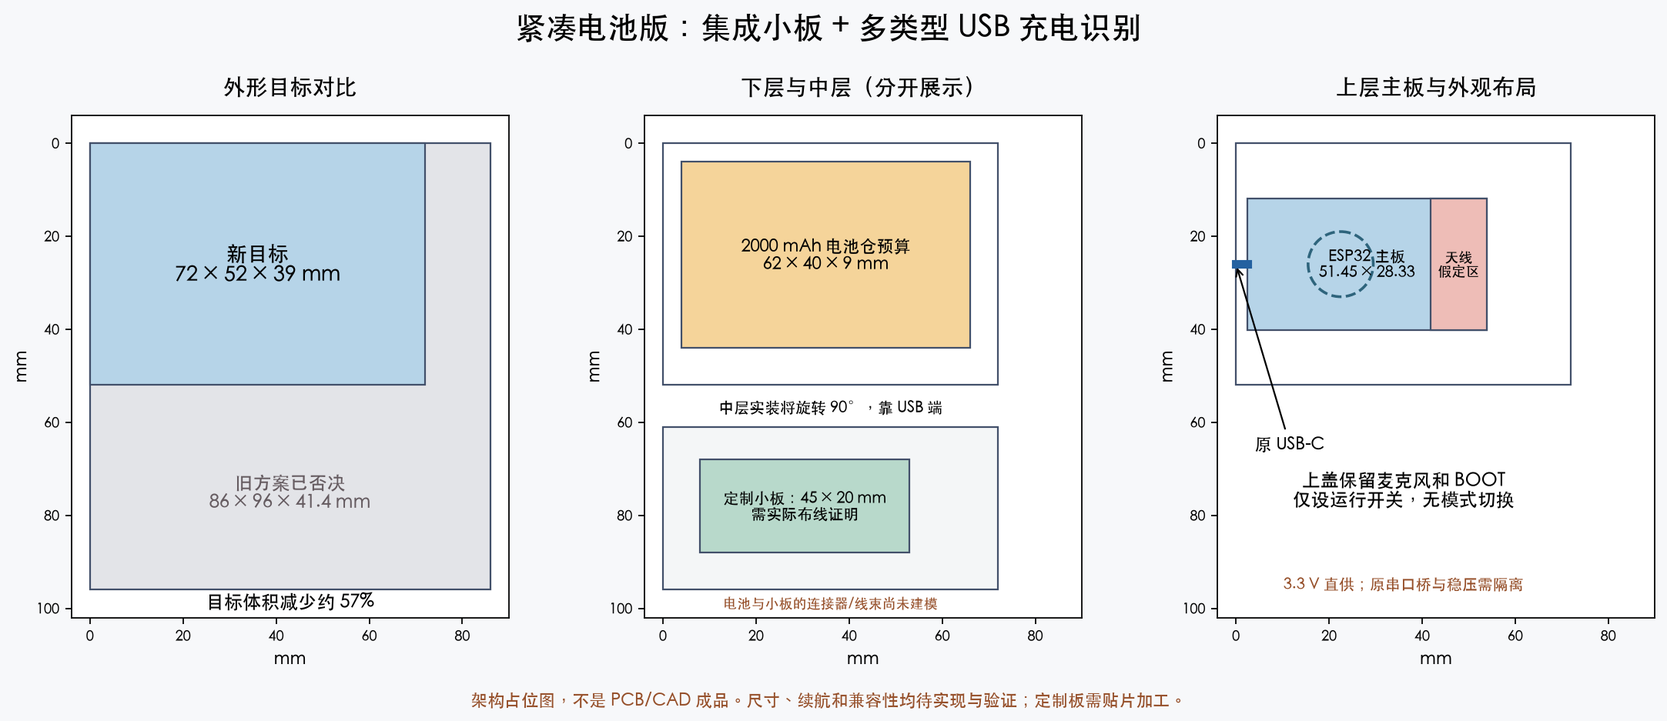
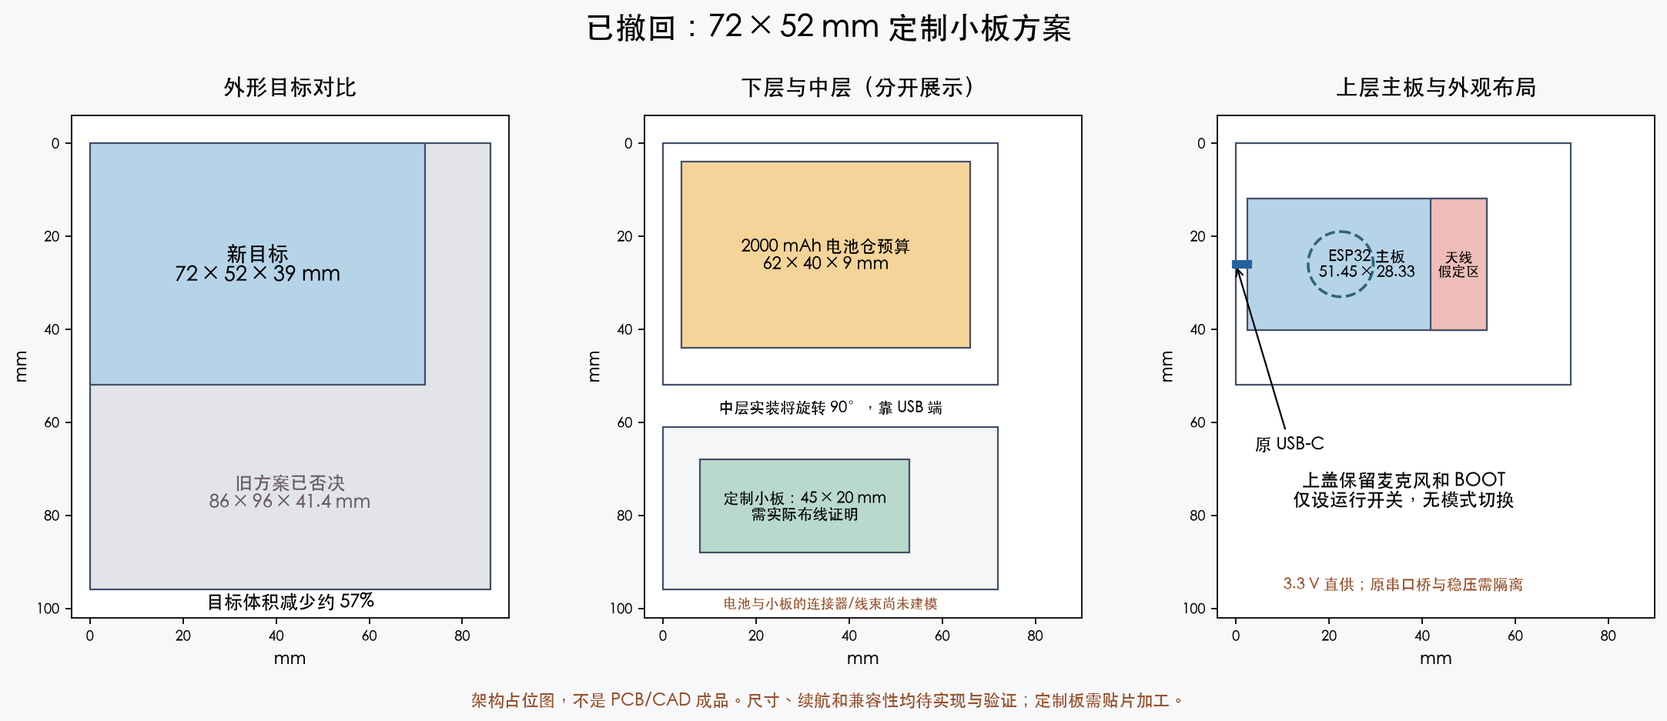
docs: 固定初代外壳长宽并核实一体电源板与小电池约束

Changed region(s): [[0.3095, 0.0, 0.6808, 0.0619]]

diff --git a/docs/superpowers/research/draw_compact_battery_layout.py b/docs/superpowers/research/draw_compact_battery_layout.py
@@ -42,7 +42,7 @@ axes[2].add_patch(plt.Circle((22.5,26),7,fill=False,edgecolor='#2e647c',lw=1.6,l
 axes[2].annotate('原 USB-C',xy=(0,26),xytext=(4,66),arrowprops={'arrowstyle':'->'},fontsize=10)
 axes[2].text(36,78,'上盖保留麦克风和 BOOT\n仅设运行开关，无模式切换',ha='center',fontsize=11)
 axes[2].text(36,96,'3.3 V 直供；原串口桥与稳压需隔离',ha='center',fontsize=9,color='#954e28')
-fig.suptitle('紧凑电池版：集成小板 + 多类型 USB 充电识别',fontsize=18,y=.97)
+fig.suptitle('已撤回：72 × 52 mm 定制小板方案',fontsize=18,y=.97)
 fig.text(.5,.03,'架构占位图，不是 PCB/CAD 成品。尺寸、续航和兼容性均待实现与验证；定制板需贴片加工。',ha='center',fontsize=10,color='#954e28')
 fig.subplots_adjust(left=.06,right=.98,top=.83,bottom=.15,wspace=.3)
 svg=ROOT/'2026-09-30-compact-battery-layout.svg'

diff --git a/docs/superpowers/specs/2026-09-30-single-usbc-battery-design.md b/docs/superpowers/specs/2026-09-30-single-usbc-battery-design.md
@@ -1,148 +1,91 @@
-# VOXU 紧凑单 USB-C 电池版设计
+# VOXU 原尺寸电池版设计
 
-日期：2026-09-30。基线：main `81804c4`，PR #3 和 #4 已合入。
+日期：2026-09-30。远程 main 已核实为 `81804c4`，包含初代外壳及蓝牙重连改动。
 
-**状态：根据用户否决大尺寸方案后的架构修订。尚未完成电路图、PCB 布线、CAD/STL、打板或实测。本文不是直接采购/焊接说明。**
+**当前阶段：按用户最新要求重新选型和布局。尚无可直接照焊的完整接线图，也没有电池版打印文件。**
 
-## 1. 已确认的要求
+## 1. 当前约束
 
-- 复用现有 ESP32-WROOM-32、30 针开发板、原 USB-C 接口与 14 mm 圆形 INMP441。
-- 保持现有麦克风、BOOT 操作及蓝牙自动重连功能，目标持续连接并采音 4–6 小时。
-- 同一个 USB-C：接电脑充电并刷机，接充电器充电，拔线自动用电池；不设电脑/充电器切换开关。
-- 主要电脑是 MacBook USB-C；**充电器应尽可能兼容多种类型，不能限定只有 USB-C 和 C-to-C 线。**
-- **86 × 96 × 42 mm 模块堆叠方案已被否决。** 不再使用大型 Click 检测板、Adafruit 充电板、PowerBoost 板叠加作为成品方案。
-- 交付 BOM、电路/接线/改造与装配说明、可编辑外壳源码、STL、实际预览、打印包和分项验证记录；原 USB 版保持独立。
+- 外壳长宽固定 **60 × 40 mm**，保持初代外形；仅适当增加厚度。初代壳体高 19.4 mm，按钮另计。
+- 优先利用现有空隙放小电池，容量服从空间；原先 4–6 小时改为参考愿望，不再为满足它扩大长宽。实际续航需测量后报告。
+- 保留 ESP32-WROOM-32 30 针开发板、原 USB-C、原串口刷机和自动下载电路、14 mm INMP441 与 BOOT 操作。
+- 同一 USB-C 接 MacBook 可充电和刷机，接充电器可充电，拔线自动用电池；支持边充边用和关机充电，不设电脑/充电器模式开关。
+- 尽可能覆盖常见 USB-A 与 USB-C/PD 充电器的 5 V 输出，不以高压快充为前提；具体兼容性需验证。
+- 优先一块成品充电升压板，不再把定制 PCB、替换 CH340、整套 CC/UART 检测当作既定实施范围。
 
-## 2. 收敛后的架构
+86 × 96 mm 大模块方案和 72 × 52 mm 定制小板方案均已撤回。上一轮关于接受定制板与原板串口拆改的提问已失效，无需继续回答。
 
-采用一块定制电源/USB 小板，整合 USB 电源识别、串口桥、负载分配充电、3.3 V 升降压和掉电信号隔离。保留 ESP32 主控板，但隔离其原 CH340 与 5 V→3.3 V 稳压通路，避免两套电路并联。小板需要打板和贴片加工；不能当成现成模块接几根电源线即可完成。
+## 2. 除电池之外需要什么
 
-改为直接产生稳压 **3.3 V** 给主控和麦克风，取消“电池升到约 5.2 V，再由原板线性降到 3.3 V”的路径。较低的系统功率预算有助于采用更窄电池并降低普通电脑口的充电负担。实际收益必须测量。
+| 项目 | 数量 | 用途 |
+| --- | ---: | --- |
+| 带保护的单节 3.7 V / 满充 4.2 V 电池 | 1 | 按可用空间、持续/峰值放电能力选型，不只看 mAh |
+| 集成充电、负载分配和 5 V 升压的成品板 | 优先 1 | 插线充电并供电，拔线从电池供电；维持原板 VIN 供电方式 |
+| 小运行开关 | 1 | 控制系统运行，充电仍保留 |
+| 导线、绝缘和固定件 | 少量 | 固定软包，隔开焊点与热源，完成电源改接 |
+| 模块充电设定电阻 | 可能更换 1 个 | 将默认大电流降至适合小电池的值 |
 
-```text
-原 USB-C
- ├─ CC1/CC2 ── PTN5150A（受电端）──── 电流声明/连接状态 ─┐
- ├─ D+/D− ──── FT231X（替代原 CH340）── 枚举/充电器检测 ─┤
- │                  └─ TX/RX/DTR/RTS ─ TXU0304 ─ 原下载电路/ESP32
- └─ VBUS ── USB 控制电源（插线即工作）                   │
-         └─ BQ24074 ← 硬件许可与限流控制 ←───────────────┘
-              ↕         │ OUT
-          保护电池      TPS63802 → SYS_3V3 → ESP32 / INMP441
-                         ↑ EN
-                       运行开关
-```
+这是数量与功能说明，不是已冻结采购单。充电升压板不会自动使原开发板具备电池充电能力；必须区分 USB 输入和升压输出，避免输出回流到 USB。
 
-USB 检测、FT231X 和充电控制从外部 VBUS 取得电源，不依赖电池或 ESP32 启动。这是空电池接电脑恢复和关机充电的基础。运行开关关闭系统稳压输出，不关闭充电控制。
+## 3. 成品板候选
 
-## 3. 核心器件候选与用途
+优先复核 **Adafruit PowerBoost 1000C #2465**。它已有负载分配充电和约 5.2 V 升压，可保留原开发板稳压器与串口桥。厂家产品页标注的 23 × 45 × 10 mm 是装上 USB-A 插座后的尺寸，不能据此直接判定装不下。
 
-| 器件 | 用途 | 选型依据 / 尚需完成 |
-| --- | --- | --- |
-| PTN5150A | USB-C CC 电流与连接检测，固定 UFP | 支持断电时内部 Rd；直接使用 IC，取消 57 mm Click 模块；核对封装、供应与 GPIO 时序 |
-| FT231XQ | USB UART、专用充电器检测、枚举/挂起输出 | 替代原 CH340；MTP 需配置 500 mA 请求、CBUS 和充电检测，作为小板生产配置步骤 |
-| BQ24074 | 单节 4.2 V 锂电充电及负载分配 | 对系统负载和电池充电分别管理；需要 NTC 和输入许可，不单凭 VBUS 有电就大电流充电 |
-| TPS63802 | 3.3 V 升降压、关断时负载断开 | 厂家给出 3.3 V、输入≥2.3 V 时 2 A 能力；电感、电容、反馈和瞬态必须按实际 PCB 设计验证 |
-| TXU0304 | USB 域与 SYS_3V3 域之间的四路信号隔离 | 3 路桥→主控、1 路主控→桥，覆盖 TX、DTR、RTS、RX；处理关机或拔 USB 时的 IO 灌电 |
-| 逻辑门、限流选择 MOSFET | 硬件许可与限流选择 | 控制电源优先使用 FT231X 的 3V3OUT，外部负载预算≤10 mA；该输出额定 50 mA，不能用于给 ESP32 供电；具体封装、默认态和去耦落入原理图 |
-| 单节保护电池，约 2000 mAh | 缩小宽度，保留续航目标 | 以 Adafruit #2011 的 60 × 36 × 7 mm 为尺寸参考；其关联文件存在 LP803860 型号，先留 62 × 40 × 9 mm 电池仓包络，供应/实物尺寸需确认 |
-| 10 kΩ NTC、运行开关、连接器/绝缘件 | 温度监测、用户开关与装配 | NTC 参数匹配充电器；电池保护和 NTC 均不能省略 |
+本轮读取厂家 Rev B EAGLE 文件：PCB Dimension 层范围约 **36.068 × 22.86 mm**。不装散装 USB-A 输出座，使用输出焊盘。板上的 JST、电感、micro-USB 和接线仍占空间；PCB 外形不等于完整装配包络，高度需继续核实。
 
-以上是架构级候选，不是完整制造 BOM。尤其不能将未核对的电池型号替换后继续沿用旧外壳。电池参考页本轮显示缺货，采购版本与可用替代件尚未锁定。
+原理图确认 `R16=1kΩ` 接 MCP73871 `PROG1`，默认约 1 A 充电，不适合本次小电池。拟改为 `10kΩ`，芯片资料在相应测试条件给出约 90–110 mA。这是充电电流设置，**不是 USB 总输入限流**。原板 `SEL` 接 VBUS，默认适配器模式；仅改 R16 不能宣称获得 USB 端口协商或 100 mA 总输入限制。最终接线与电脑供电预算仍需完成。
 
-## 4. USB 自动识别与充电策略
+这一候选此前因 USB 授权与限流问题没有冻结；本轮发现较小裸板尺寸，解决的是机械尺寸判断，并没有解决上述电气问题。若输入预算无法满足目标，不能把它当作已通过方案，也不自动恢复复杂串口替换方案。
 
-兼容性用明确的电源类别和验证矩阵定义，不使用“所有充电器保证可用”的表述。
+其他候选：DFRobot DFR0446 约 35 × 30 mm，但默认大电流与连接器需要额外处理；SparkFun MCP73831/PAM2401 板不凭“充电+升压”商品名认定具备所需负载分配；Waveshare UPS Mini 的 61 × 38 mm PCB 已超过本壳可用长宽，不继续采用。
 
-| 接入类型 | 识别依据 | 设计行为 |
-| --- | --- | --- |
-| MacBook / USB-C 主机，声明 1.5 A 或 3 A | CC 连接有效及电流声明 | 自动充电，FT231X 同时承担刷机数据；不请求 9/12/20 V |
-| 普通 USB 数据主机 / USB-A 转 C 数据线 | FT231X 成功配置及功耗请求 | 枚举成功后进入较低输入限流档，允许同时刷机和充电 |
-| USB-A BC1.2 DCP 充电器 | FT231X 专用充电器检测 | 自动进入充电档，无需主机枚举 |
-| CDP 充电数据口 | 先按已枚举的 USB 数据口处理 | 保守限流并保留数据，不为了宣称更快充电而假定 1.5 A 授权 |
-| USB-C 充电器，声明 1.5 A 或 3 A | CC 检测 | 自动充电；覆盖常用 USB-C/PD 充电器的 5 V 供电，不请求高压 |
-| 主机挂起/断开授权 | CC 与 FT231X 状态变化 | 自动降低/关闭外部输入，必要时电池维持运行；恢复后重新判断，不需切档 |
-| 不规范充电器、仅私有分压识别、数据脚悬空或异常线缆 | 尚无可靠许可 | 不冒充已兼容；保留测试项。优先覆盖上面的标准类别，异常类别不得默认放大电流 |
+## 4. 电池与续航边界
 
-定义 `C = CC连接有效且声明≥1.5A`、`D = FT231X确认DCP`、`E = FT231X成功配置且未挂起`。
+500 mAh 参考件 Adafruit #1578 为 **36 × 29 × 4.75 mm**，带保护。其厂家数据表最大持续放电为 1C，即约 0.5 A；它是尺寸与电流参考，尚未定为采购件。
 
-- 允许充电输入：`G = C OR D OR E`。
-- 高输入预算：`H = C OR D`；其余已配置数据主机采用低输入预算。
-- 无许可时 BQ 使用 standby；系统可以继续用电池，不能把电池放电误报为正在充电。
-- 以上是稳态逻辑。复位、插拔、挂起、无电池启动、各信号失效/高阻、输出下拉都必须在原理图和实物中验证。
+以最低电压 3.0 V、升压效率 85% 估算，这个持续电流上限只能支持约 `3.0 × 0.5 × 0.85 / 5.2 = 0.245 A` 的 5.2 V 输出。必须检查整机负载与启动峰值，不能把升压板额定 1 A 当作小电池也能输出 1 A。参考电池数据表没有提供这里所需的峰值放电保证。
 
-FT231X 的枚举和 DCP 检测走同一个 USB PHY，避免把独立检测芯片未经时序管理直接并联到 CH340 数据线上。USB 控制域和主控域之间通过 TXU0304；不能把 DTR/RTS 直接改接到 EN/BOOT 而跳过原来的自动下载逻辑。
+500 mAh 在 5.2 V 平均负载 0.2 A、85% 效率、80% 可用容量的示例续航约 **1.21 小时**。这是假设计算，不是实测或用户承诺；比原 2000 mAh 方案短是缩小电池后的直接结果。更小电池仍需满足放电能力，不能只为并排塞入外壳选择 100/150 mAh。
 
-## 5. 输入电流预算
+## 5. 已有空间的实际约束
 
-当前主机上已读取到一个 WCH `1a86:7523` 设备，`bMaxPower=49` 即 98 mA；它与照片板的对应关系未独立确认。该证据不支持假定旧串口桥已申请 500 mA。[只读记录](../research/2026-09-30-usb-readonly-evidence.json)保留原始结果及限制。
+从初代参数和 CAD 源码计算，数值及厂家 PCB 源文件校验值见 [本轮证据](../research/2026-09-30-original-footprint-evidence.json)：
 
-定制板拟采用两档 ILIM 电阻网络：基础 **4.53 kΩ、1%**；高预算时并联 **3.01 kΩ、1%**，等效约 1.81 kΩ。MOSFET 的导通电阻和漏电也需纳入最终误差。
+| 部位 | 当前空间 | 说明 |
+| --- | ---: | --- |
+| 底板上表面到主板底面 | 2 mm | 底板 z=2，主板底面 z=4；还需扣焊点、托台及绝缘 |
+| 主板高元件顶面到可选麦克风压框下缘 | 3.5 mm | 高元件 z=10.1，压框最低 z=13.6；不是整层连续空腔 |
+| 主板后缘到后内壁 | 4.15 mm | PCB 后缘 x=53.85，内壁 x=58 |
 
-按 BQ24074 数据手册相应档位系数计算：
+所以不能只凭外观空隙认定 4.75 mm 电池能直接放入原 19.4 mm 高壳。下一步在 **60 × 40 mm** 内比较“电源板下置、电池利用上方空隙”和“底部薄分层”两种排布，再得到最小厚度，不先承诺未经检查的高度。
 
-| 档位 | 预计输入限流范围 | 约束 |
-| --- | --- | --- |
-| 已配置普通数据主机 | 约 0.291–0.384 A | 控制域额外电流另计；控制域预算上限 50 mA，则合计上限约 434 mA，低于拟请求的 500 mA |
-| 已识别 DCP / CC 高电流 | 约 0.821–0.961 A | 控制域仍另计；不把 1.5 A 源端额度全部交给充电器 |
+- 保留麦克风卡槽形状和 BOOT 功能。上移部件后重算 USB 窗口、卡扣、支撑与按钮；不能只修改壳高。
+- 不让支柱、焊脚或卡扣压电池。电池包络需包含保护板、线出口、公差与适当余量。
+- 电池与电源板靠近 USB 端，避免覆盖主板远端天线；无法完全满足推荐净空时必须记录并做实际蓝牙距离/录音测试，不能当作射频验证通过。
+- 初代 USB 外壳文件保持独立，电池版另建目录；新尺寸与支撑验证后才生成可打印件。
 
-50 mA 是控制域设计约束，不是已测值；定稿前必须列全 FT231X、CC、隔离和逻辑电流。低档系数使用 200–500 mA 条件，不能套用高档的典型值。
+## 6. 原 USB-C 的电源改接
 
-充电电流初始预算约 0.4–0.5 A，并由输入负载分配和温度限制自动降低。3.3 V 系统在普通电脑档的持续工作/净充电能力要用实际功耗验证。若持续负载大于输入余量，不能把亮充电灯当作边充边用验收通过。
+概念连接为：原 USB-C VBUS → 成品电源板输入；保护电池 → BAT；电源板输出 → 原板 VIN；所有地共地。原 USB 数据和自动下载连接保留。
 
-## 6. 主板改造边界
+**此图还不能照焊。** 必须先确认实际开发板 VBUS、VIN、串口桥供电及原板隔离二极管/走线。输入与输出不能并在同一网形成充电回路；不能凭照片外形猜测应拆哪个二极管。还需核对拔 USB 或运行开关关闭时 UART 的供电状态与回灌。
 
-1. 保留原 USB-C 的机械位置和接口；将其 VBUS、GND、CC1/CC2、D+/D− 分别接入小板规定节点。
-2. 隔离原 USB VBUS→VIN→3V3 供电通路；隔离原 3.3 V 稳压器，防止从输出端回灌。SYS_3V3 只送往验证后的主控 3.3 V 电源网，不接 VIN。
-3. 原 CH340 的 USB 和 UART 驱动不能与 FT231X 并联，需移除/隔离原桥。FT231X 经隔离器连至 ESP32 UART 与原 DTR/RTS 下载电路的对应输入。
-4. CC 检测 IC 自带 Rd，原板两条 CC 下拉需按最终追线结果处理；不得仅凭外形猜焊点。
-5. SYS_3V3 的稳态、启动和负载阶跃上冲均需落在 ESP32 允许范围。电池不直接接 3V3；原板上的 3V3 标签不代表可以直接接单节锂电。
-6. 空板导通、极性、USB 回灌和限流电源测试通过后再接电池。原板具体改造图和小板制造文件仍待完成。
+兼容性验收分别包含：MacBook C-to-C 充电刷机、USB-A 充电器+A-to-C、USB-C/PD 充电器+C-to-C、插拔、关机充电、低电量启动。模块能接 5 V 不等于上述组合全部已通过。保留已读取的 [USB 描述符证据](../research/2026-09-30-usb-readonly-evidence.json)，不把端口标称能力当作实际授权或功耗测量。
 
-这个方案需要贴片加工和原板细焊点改造，不能继续描述成只需拆排针。应先完成可审阅电路与制造方案，再明确用户实际需要执行的步骤。
+## 7. 下一步与完成标准
 
-## 7. 续航与外壳目标
+1. 锁定模块装配包络、小电池放电能力与原板电源改接；提供可审阅 BOM 和明确接线。
+2. 在 60 × 40 mm 内完成部件排布、机械支撑和最小厚度；输出独立参数化 CAD、STL、预览及打印包。
+3. 完成几何/按钮/碰撞及 P2S 切片检查，并保留实物尺寸与装配验证项。
+4. 实测电脑充电刷机、各类充电器、插拔、关机充电、无回灌、温升、录音与续航。
 
-2000 mAh 电池名义能量 7.4 Wh，暂取 85% 转换效率、80% 可用容量：
+PR 继续 Draft。当前没有最终电路、打印包或实物验证通过的结论。
 
-`小时 = 2.0 × 3.7 × 0.85 × 0.80 / (3.3 × 系统平均电流A)`
+## 8. 可追溯资料
 
-| 3.3 V 系统平均电流 | 预算续航 |
-| --- | ---: |
-| 0.25 A | 6.10 h |
-| 0.30 A | 5.08 h |
-| 0.35 A | 4.36 h |
-
-这是重新计算的直接 3.3 V 架构预算，不是测量；不得复用旧 5.2 V 电流数据。电池端连续使用至少 4 小时仍为实物验收项。
-
-新的外形设计目标为 **约 72 × 52 × 39 mm**（按钮凸起另计），体积约比被否决方案降低 57%。这只是布局目标，不能先承诺一定能实现。定制板初始占位约 **45 × 20 mm**，须由实际布线、热设计和装配确认。
-
-![紧凑方案的尺寸比较与分层占位；不是最终 CAD](../research/2026-09-30-compact-battery-layout.png)
-
-[可编辑 SVG](../research/2026-09-30-compact-battery-layout.svg)与[绘图源码](../research/draw_compact_battery_layout.py)保留尺寸目标和假设；图中分层占位不能替代实际碰撞检查。
-
-- 电池下层，按 62 × 40 × 9 mm 包络留间隙与线出口。
-- 定制板置于中层靠 USB 端；发热和开关节点远离麦克风，导电部分避开天线。
-- ESP32 上层；主板天线与电池/金属的净空是缩小外壳的硬约束，不能只压低高度。
-- 保留平面上盖、已验证的麦克风卡槽形状和 BOOT 功能；新的按钮长度需要重新验证，不把旧样件长度直接认作适用。
-- 电池与热源隔开，避免螺钉或焊脚压迫软包；充电板热限流后仍需净充电。
-
-历史 [86 × 96 × 42 mm 布局](../research/2026-09-30-battery-layout-proposal.md)明确标为已否决；其中器件研究可作参考，不能再作为当前成品方向。
-
-## 8. 交付和验收
-
-- 当前：修订后的架构、兼容性/电流预算；不是完整 BOM、PCB 或打印包。
-- 下一步：闭合控制原理图、器件与引脚、USB 配置、NTC、启动/挂起真值表；完成 PCB 实际外廓及可制造性检查。
-- 随后：独立电池版 CAD/STL、装配预览、尺寸/碰撞检查、P2S 切片与下载包，不覆盖原 USB 版。
-- 实物：主板改造节点、各类电源的自动充电及刷机、关机充电、空电池恢复、无回灌、热与 NTC/低压保护、录音噪声、4 小时续航、装配与按键均需验证。
-- PR 保持 Draft，分别报告资料/计算、PCB/CAD 检查、CI 和实物验证；不把候选器件的厂家规格当作整机验收结果。
-
-## 9. 依据
-
-- [FT231X 数据手册](https://ftdichip.com/wp-content/uploads/2025/06/DS_FT231X.pdf)：USB UART、CBUS、3V3OUT 额定输出与 MTP 配置。
-- [FTDI AN_175](https://ftdichip.com/wp-content/uploads/2020/08/AN_175_Battery-Charger-Detection-over-USB-with-FT-X-Devices.pdf)：枚举、挂起与 DCP 检测控制。
-- [PTN5150A 手册](https://download.mikroe.com/documents/datasheets/PTN5150A_datasheet.pdf)：CC 电流检测、断电 Rd、GPIO 模式。
-- [BQ24074 手册](https://www.ti.com/lit/gpn/bq24074)：电源路径、两档 ILIM 误差系数。
-- [TPS63802](https://www.ti.com/product/TPS63802)：升降压和关断输出隔离。
-- [TXU0304 手册](https://www.ti.com/lit/ds/symlink/txu0304.pdf)：固定方向通道和电源域掉电隔离。
-- [2000 mAh 电池尺寸参考](https://www.adafruit.com/product/2011)：尺寸及关联文件型号需要继续核对。
-- [旧模块规格存档](../research/2026-09-30-rejected-modular-spec.md)：已否决，仅供追溯。
+- [原 USB 外壳参数](../../../hardware/enclosure/parameters.json)与[CAD 源码](../../../hardware/enclosure/generate.py)。
+- [PowerBoost 1000C 产品页](https://www.adafruit.com/product/2465)及[厂家原理图/PCB](https://github.com/adafruit/Adafruit-PowerBoost-1000C)。
+- [MCP73871 数据表](https://ww1.microchip.com/downloads/aemDocuments/documents/APID/ProductDocuments/DataSheets/MCP73871-Data-Sheet-DS20002090F.pdf)。
+- [500 mAh 参考电池](https://www.adafruit.com/product/1578)及[放电规格](https://cdn-shop.adafruit.com/product-files/1578/Datasheet.pdf)。
+- [DFRobot DFR0446](https://www.dfrobot.com/product-1613.html)、[Waveshare UPS Mini](https://www.waveshare.com/wiki/UPS_Module_Mini)。
+- [已撤回的定制板方案](../research/2026-09-30-superseded-custom-board-spec.md)，仅供追溯。

diff --git a/docs/superpowers/research/2026-09-30-superseded-custom-board-spec.md b/docs/superpowers/research/2026-09-30-superseded-custom-board-spec.md
@@ -1,0 +1,150 @@
+> 已撤回：用户随后明确长宽必须保持 60 × 40 mm，并优先小电池与简单实现。本文的 72 × 52 × 39 mm 和更换串口桥方案不再执行。当前规格见 [同尺寸电池版](../specs/2026-09-30-single-usbc-battery-design.md)。
+
+# VOXU 紧凑单 USB-C 电池版设计
+
+日期：2026-09-30。基线：main `81804c4`，PR #3 和 #4 已合入。
+
+**状态：根据用户否决大尺寸方案后的架构修订。尚未完成电路图、PCB 布线、CAD/STL、打板或实测。本文不是直接采购/焊接说明。**
+
+## 1. 已确认的要求
+
+- 复用现有 ESP32-WROOM-32、30 针开发板、原 USB-C 接口与 14 mm 圆形 INMP441。
+- 保持现有麦克风、BOOT 操作及蓝牙自动重连功能，目标持续连接并采音 4–6 小时。
+- 同一个 USB-C：接电脑充电并刷机，接充电器充电，拔线自动用电池；不设电脑/充电器切换开关。
+- 主要电脑是 MacBook USB-C；**充电器应尽可能兼容多种类型，不能限定只有 USB-C 和 C-to-C 线。**
+- **86 × 96 × 42 mm 模块堆叠方案已被否决。** 不再使用大型 Click 检测板、Adafruit 充电板、PowerBoost 板叠加作为成品方案。
+- 交付 BOM、电路/接线/改造与装配说明、可编辑外壳源码、STL、实际预览、打印包和分项验证记录；原 USB 版保持独立。
+
+## 2. 收敛后的架构
+
+采用一块定制电源/USB 小板，整合 USB 电源识别、串口桥、负载分配充电、3.3 V 升降压和掉电信号隔离。保留 ESP32 主控板，但隔离其原 CH340 与 5 V→3.3 V 稳压通路，避免两套电路并联。小板需要打板和贴片加工；不能当成现成模块接几根电源线即可完成。
+
+改为直接产生稳压 **3.3 V** 给主控和麦克风，取消“电池升到约 5.2 V，再由原板线性降到 3.3 V”的路径。较低的系统功率预算有助于采用更窄电池并降低普通电脑口的充电负担。实际收益必须测量。
+
+```text
+原 USB-C
+ ├─ CC1/CC2 ── PTN5150A（受电端）──── 电流声明/连接状态 ─┐
+ ├─ D+/D− ──── FT231X（替代原 CH340）── 枚举/充电器检测 ─┤
+ │                  └─ TX/RX/DTR/RTS ─ TXU0304 ─ 原下载电路/ESP32
+ └─ VBUS ── USB 控制电源（插线即工作）                   │
+         └─ BQ24074 ← 硬件许可与限流控制 ←───────────────┘
+              ↕         │ OUT
+          保护电池      TPS63802 → SYS_3V3 → ESP32 / INMP441
+                         ↑ EN
+                       运行开关
+```
+
+USB 检测、FT231X 和充电控制从外部 VBUS 取得电源，不依赖电池或 ESP32 启动。这是空电池接电脑恢复和关机充电的基础。运行开关关闭系统稳压输出，不关闭充电控制。
+
+## 3. 核心器件候选与用途
+
+| 器件 | 用途 | 选型依据 / 尚需完成 |
+| --- | --- | --- |
+| PTN5150A | USB-C CC 电流与连接检测，固定 UFP | 支持断电时内部 Rd；直接使用 IC，取消 57 mm Click 模块；核对封装、供应与 GPIO 时序 |
+| FT231XQ | USB UART、专用充电器检测、枚举/挂起输出 | 替代原 CH340；MTP 需配置 500 mA 请求、CBUS 和充电检测，作为小板生产配置步骤 |
+| BQ24074 | 单节 4.2 V 锂电充电及负载分配 | 对系统负载和电池充电分别管理；需要 NTC 和输入许可，不单凭 VBUS 有电就大电流充电 |
+| TPS63802 | 3.3 V 升降压、关断时负载断开 | 厂家给出 3.3 V、输入≥2.3 V 时 2 A 能力；电感、电容、反馈和瞬态必须按实际 PCB 设计验证 |
+| TXU0304 | USB 域与 SYS_3V3 域之间的四路信号隔离 | 3 路桥→主控、1 路主控→桥，覆盖 TX、DTR、RTS、RX；处理关机或拔 USB 时的 IO 灌电 |
+| 逻辑门、限流选择 MOSFET | 硬件许可与限流选择 | 控制电源优先使用 FT231X 的 3V3OUT，外部负载预算≤10 mA；该输出额定 50 mA，不能用于给 ESP32 供电；具体封装、默认态和去耦落入原理图 |
+| 单节保护电池，约 2000 mAh | 缩小宽度，保留续航目标 | 以 Adafruit #2011 的 60 × 36 × 7 mm 为尺寸参考；其关联文件存在 LP803860 型号，先留 62 × 40 × 9 mm 电池仓包络，供应/实物尺寸需确认 |
+| 10 kΩ NTC、运行开关、连接器/绝缘件 | 温度监测、用户开关与装配 | NTC 参数匹配充电器；电池保护和 NTC 均不能省略 |
+
+以上是架构级候选，不是完整制造 BOM。尤其不能将未核对的电池型号替换后继续沿用旧外壳。电池参考页本轮显示缺货，采购版本与可用替代件尚未锁定。
+
+## 4. USB 自动识别与充电策略
+
+兼容性用明确的电源类别和验证矩阵定义，不使用“所有充电器保证可用”的表述。
+
+| 接入类型 | 识别依据 | 设计行为 |
+| --- | --- | --- |
+| MacBook / USB-C 主机，声明 1.5 A 或 3 A | CC 连接有效及电流声明 | 自动充电，FT231X 同时承担刷机数据；不请求 9/12/20 V |
+| 普通 USB 数据主机 / USB-A 转 C 数据线 | FT231X 成功配置及功耗请求 | 枚举成功后进入较低输入限流档，允许同时刷机和充电 |
+| USB-A BC1.2 DCP 充电器 | FT231X 专用充电器检测 | 自动进入充电档，无需主机枚举 |
+| CDP 充电数据口 | 先按已枚举的 USB 数据口处理 | 保守限流并保留数据，不为了宣称更快充电而假定 1.5 A 授权 |
+| USB-C 充电器，声明 1.5 A 或 3 A | CC 检测 | 自动充电；覆盖常用 USB-C/PD 充电器的 5 V 供电，不请求高压 |
+| 主机挂起/断开授权 | CC 与 FT231X 状态变化 | 自动降低/关闭外部输入，必要时电池维持运行；恢复后重新判断，不需切档 |
+| 不规范充电器、仅私有分压识别、数据脚悬空或异常线缆 | 尚无可靠许可 | 不冒充已兼容；保留测试项。优先覆盖上面的标准类别，异常类别不得默认放大电流 |
+
+定义 `C = CC连接有效且声明≥1.5A`、`D = FT231X确认DCP`、`E = FT231X成功配置且未挂起`。
+
+- 允许充电输入：`G = C OR D OR E`。
+- 高输入预算：`H = C OR D`；其余已配置数据主机采用低输入预算。
+- 无许可时 BQ 使用 standby；系统可以继续用电池，不能把电池放电误报为正在充电。
+- 以上是稳态逻辑。复位、插拔、挂起、无电池启动、各信号失效/高阻、输出下拉都必须在原理图和实物中验证。
+
+FT231X 的枚举和 DCP 检测走同一个 USB PHY，避免把独立检测芯片未经时序管理直接并联到 CH340 数据线上。USB 控制域和主控域之间通过 TXU0304；不能把 DTR/RTS 直接改接到 EN/BOOT 而跳过原来的自动下载逻辑。
+
+## 5. 输入电流预算
+
+当前主机上已读取到一个 WCH `1a86:7523` 设备，`bMaxPower=49` 即 98 mA；它与照片板的对应关系未独立确认。该证据不支持假定旧串口桥已申请 500 mA。[只读记录](../research/2026-09-30-usb-readonly-evidence.json)保留原始结果及限制。
+
+定制板拟采用两档 ILIM 电阻网络：基础 **4.53 kΩ、1%**；高预算时并联 **3.01 kΩ、1%**，等效约 1.81 kΩ。MOSFET 的导通电阻和漏电也需纳入最终误差。
+
+按 BQ24074 数据手册相应档位系数计算：
+
+| 档位 | 预计输入限流范围 | 约束 |
+| --- | --- | --- |
+| 已配置普通数据主机 | 约 0.291–0.384 A | 控制域额外电流另计；控制域预算上限 50 mA，则合计上限约 434 mA，低于拟请求的 500 mA |
+| 已识别 DCP / CC 高电流 | 约 0.821–0.961 A | 控制域仍另计；不把 1.5 A 源端额度全部交给充电器 |
+
+50 mA 是控制域设计约束，不是已测值；定稿前必须列全 FT231X、CC、隔离和逻辑电流。低档系数使用 200–500 mA 条件，不能套用高档的典型值。
+
+充电电流初始预算约 0.4–0.5 A，并由输入负载分配和温度限制自动降低。3.3 V 系统在普通电脑档的持续工作/净充电能力要用实际功耗验证。若持续负载大于输入余量，不能把亮充电灯当作边充边用验收通过。
+
+## 6. 主板改造边界
+
+1. 保留原 USB-C 的机械位置和接口；将其 VBUS、GND、CC1/CC2、D+/D− 分别接入小板规定节点。
+2. 隔离原 USB VBUS→VIN→3V3 供电通路；隔离原 3.3 V 稳压器，防止从输出端回灌。SYS_3V3 只送往验证后的主控 3.3 V 电源网，不接 VIN。
+3. 原 CH340 的 USB 和 UART 驱动不能与 FT231X 并联，需移除/隔离原桥。FT231X 经隔离器连至 ESP32 UART 与原 DTR/RTS 下载电路的对应输入。
+4. CC 检测 IC 自带 Rd，原板两条 CC 下拉需按最终追线结果处理；不得仅凭外形猜焊点。
+5. SYS_3V3 的稳态、启动和负载阶跃上冲均需落在 ESP32 允许范围。电池不直接接 3V3；原板上的 3V3 标签不代表可以直接接单节锂电。
+6. 空板导通、极性、USB 回灌和限流电源测试通过后再接电池。原板具体改造图和小板制造文件仍待完成。
+
+这个方案需要贴片加工和原板细焊点改造，不能继续描述成只需拆排针。应先完成可审阅电路与制造方案，再明确用户实际需要执行的步骤。
+
+## 7. 续航与外壳目标
+
+2000 mAh 电池名义能量 7.4 Wh，暂取 85% 转换效率、80% 可用容量：
+
+`小时 = 2.0 × 3.7 × 0.85 × 0.80 / (3.3 × 系统平均电流A)`
+
+| 3.3 V 系统平均电流 | 预算续航 |
+| --- | ---: |
+| 0.25 A | 6.10 h |
+| 0.30 A | 5.08 h |
+| 0.35 A | 4.36 h |
+
+这是重新计算的直接 3.3 V 架构预算，不是测量；不得复用旧 5.2 V 电流数据。电池端连续使用至少 4 小时仍为实物验收项。
+
+新的外形设计目标为 **约 72 × 52 × 39 mm**（按钮凸起另计），体积约比被否决方案降低 57%。这只是布局目标，不能先承诺一定能实现。定制板初始占位约 **45 × 20 mm**，须由实际布线、热设计和装配确认。
+
+![紧凑方案的尺寸比较与分层占位；不是最终 CAD](../research/2026-09-30-compact-battery-layout.png)
+
+[可编辑 SVG](../research/2026-09-30-compact-battery-layout.svg)与[绘图源码](../research/draw_compact_battery_layout.py)保留尺寸目标和假设；图中分层占位不能替代实际碰撞检查。
+
+- 电池下层，按 62 × 40 × 9 mm 包络留间隙与线出口。
+- 定制板置于中层靠 USB 端；发热和开关节点远离麦克风，导电部分避开天线。
+- ESP32 上层；主板天线与电池/金属的净空是缩小外壳的硬约束，不能只压低高度。
+- 保留平面上盖、已验证的麦克风卡槽形状和 BOOT 功能；新的按钮长度需要重新验证，不把旧样件长度直接认作适用。
+- 电池与热源隔开，避免螺钉或焊脚压迫软包；充电板热限流后仍需净充电。
+
+历史 [86 × 96 × 42 mm 布局](../research/2026-09-30-battery-layout-proposal.md)明确标为已否决；其中器件研究可作参考，不能再作为当前成品方向。
+
+## 8. 交付和验收
+
+- 当前：修订后的架构、兼容性/电流预算；不是完整 BOM、PCB 或打印包。
+- 下一步：闭合控制原理图、器件与引脚、USB 配置、NTC、启动/挂起真值表；完成 PCB 实际外廓及可制造性检查。
+- 随后：独立电池版 CAD/STL、装配预览、尺寸/碰撞检查、P2S 切片与下载包，不覆盖原 USB 版。
+- 实物：主板改造节点、各类电源的自动充电及刷机、关机充电、空电池恢复、无回灌、热与 NTC/低压保护、录音噪声、4 小时续航、装配与按键均需验证。
+- PR 保持 Draft，分别报告资料/计算、PCB/CAD 检查、CI 和实物验证；不把候选器件的厂家规格当作整机验收结果。
+
+## 9. 依据
+
+- [FT231X 数据手册](https://ftdichip.com/wp-content/uploads/2025/06/DS_FT231X.pdf)：USB UART、CBUS、3V3OUT 额定输出与 MTP 配置。
+- [FTDI AN_175](https://ftdichip.com/wp-content/uploads/2020/08/AN_175_Battery-Charger-Detection-over-USB-with-FT-X-Devices.pdf)：枚举、挂起与 DCP 检测控制。
+- [PTN5150A 手册](https://download.mikroe.com/documents/datasheets/PTN5150A_datasheet.pdf)：CC 电流检测、断电 Rd、GPIO 模式。
+- [BQ24074 手册](https://www.ti.com/lit/gpn/bq24074)：电源路径、两档 ILIM 误差系数。
+- [TPS63802](https://www.ti.com/product/TPS63802)：升降压和关断输出隔离。
+- [TXU0304 手册](https://www.ti.com/lit/ds/symlink/txu0304.pdf)：固定方向通道和电源域掉电隔离。
+- [2000 mAh 电池尺寸参考](https://www.adafruit.com/product/2011)：尺寸及关联文件型号需要继续核对。
+- [旧模块规格存档](../research/2026-09-30-rejected-modular-spec.md)：已否决，仅供追溯。
